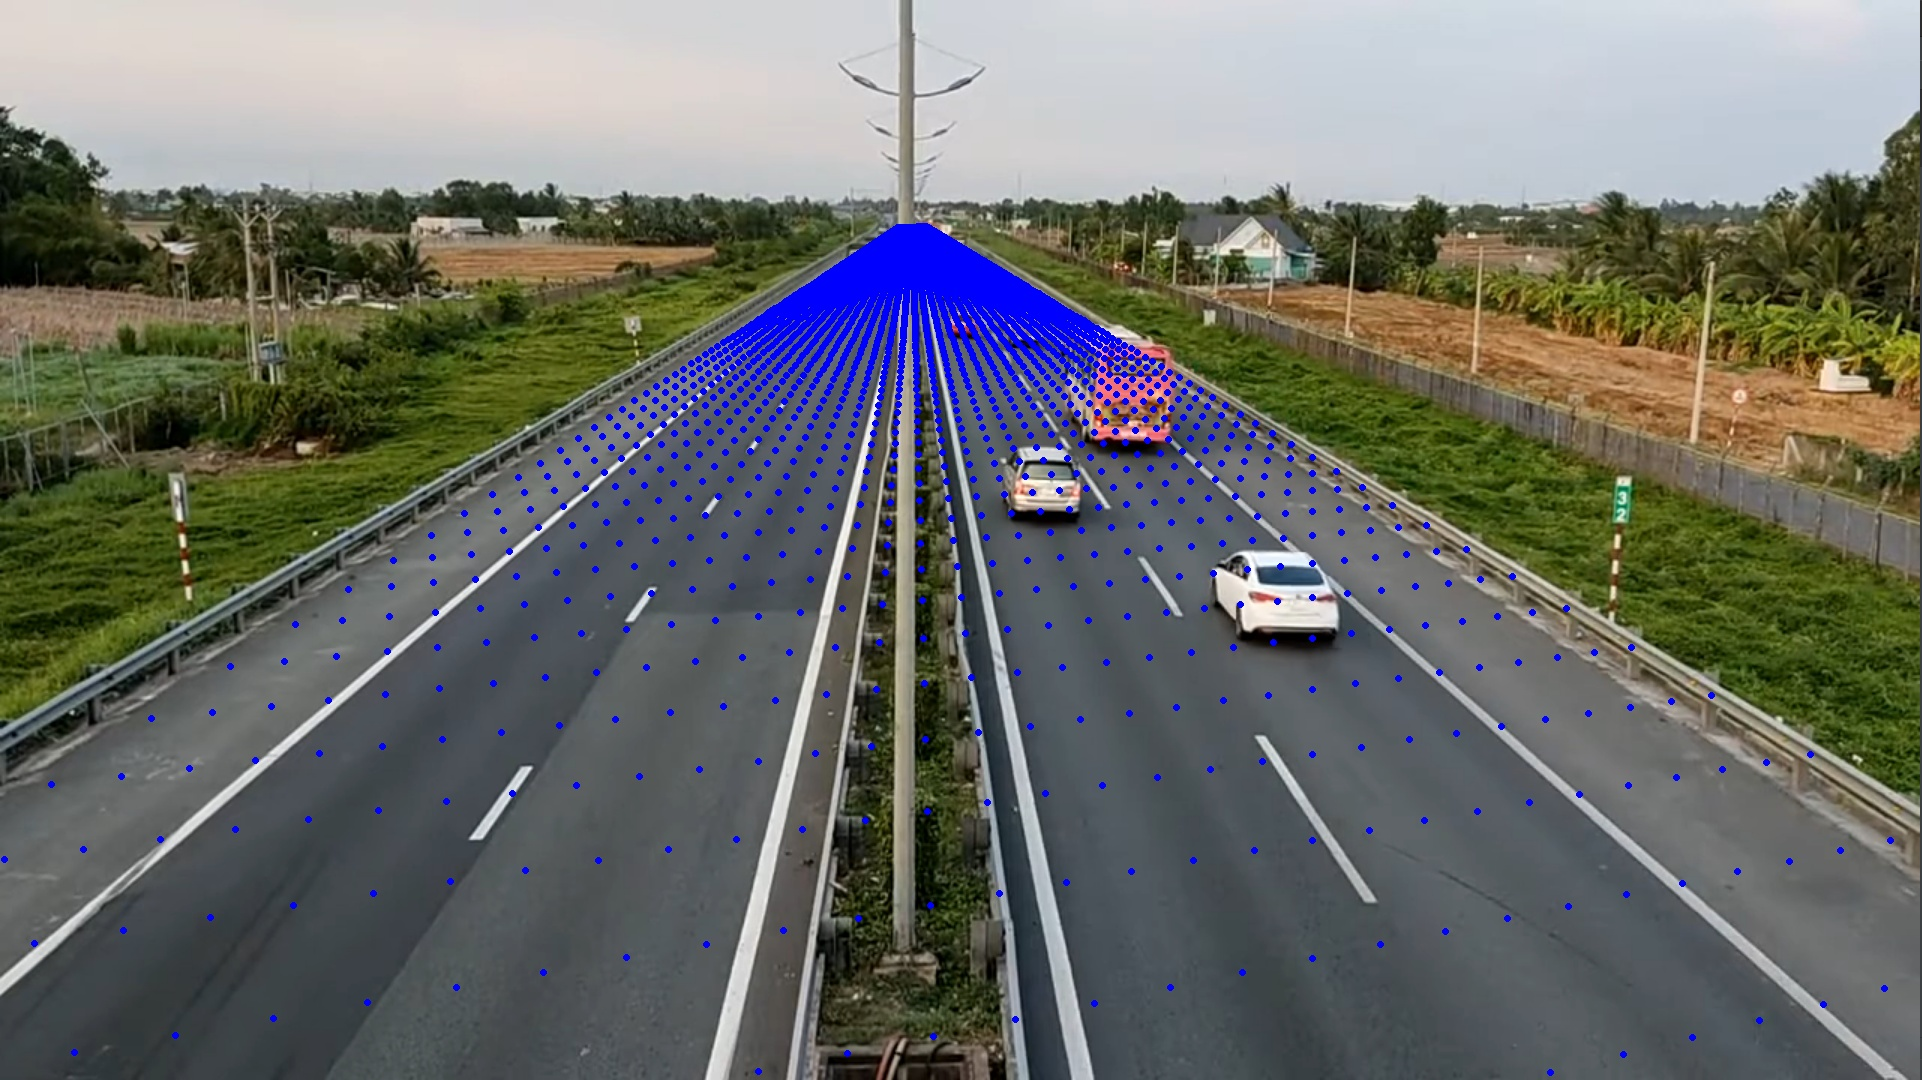
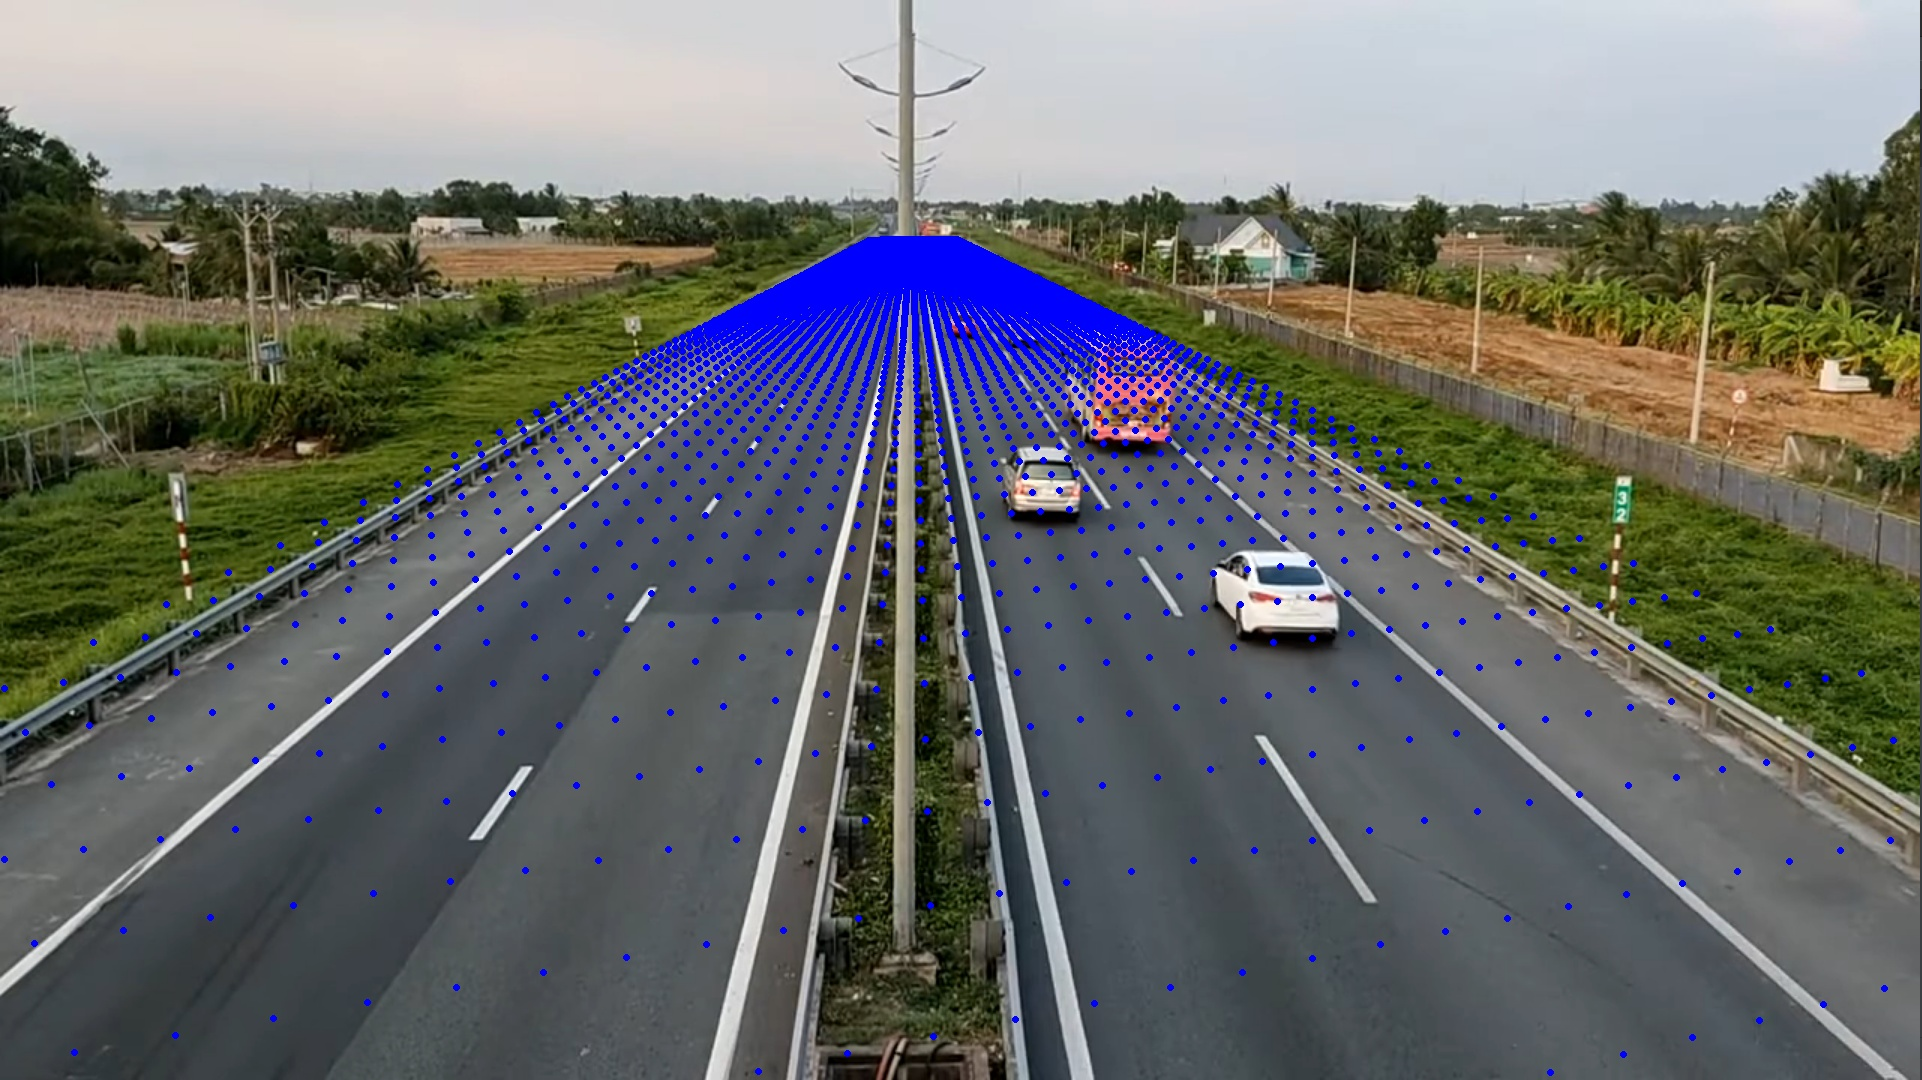
x

diff --git a/predictor/speed_estimator.py b/predictor/speed_estimator.py
@@ -1,6 +1,5 @@
 import math
-
-
+from .transform_3d import * 
 
 def twopoint_speed(Location1, Location2):
     #Euclidean Distance Formula
@@ -39,8 +38,59 @@ def birdeyes_speed(location1, location2):
     return int(speed)
 
 
-def transform_3d_speed():
-    pass
+def transform_3d_speed(location1, location2):
+    height, width = 740, 1280
+
+    # Khởi tạo các tham số
+    pi = 3.14
+    # Góc quay camera
+    p = [-pi / 7.4, 0.11, 0.0]  # [góc quay theo trục X, quay theo trục Y, quay theo trục Z]
+
+    H = 5.0  # Chiều cao của camera so với mặt đất
+    f = 0.010  # focal_length của camera
+    # Độ rộng 1 pixel
+    pu = 0.000025
+
+    # Ma trận hướng của camera, Rx tương ứng là ma trận xoay theo trục X
+    Rx = np.array([[1, 0, 0, 0],
+                   [0, cos(-p[0]), sin(-p[0]), 0],
+                   [0, -sin(-p[0]), cos(-p[0]), 0],
+                   [0, 0, 0, 1]])
+
+    Ry = np.array([[cos(-p[1]), 0, -sin(-p[1]), 0],
+                   [0, 1, 0, 0],
+                   [sin(-p[1]), 0, cos(-p[1]), 0],
+                   [0, 0, 0, 1]])
+
+    Rz = np.array([[cos(-p[2]), sin(-p[2]), 0, 0],
+                   [-sin(-p[2]), cos(-p[2]), 0, 0],
+                   [0, 0, 1, 0],
+                   [0, 0, 0, 1]])
+
+    # Ma trận vị trí của camera
+    T = np.array([[1, 0, 0, 0],
+                  [0, 1, 0, -H],
+                  [0, 0, 1, 0],
+                  [0, 0, 0, 1]])
+    R = Rx @ Ry @ Rz
+
+    # Ma trận chiếu
+    K = np.array([[-f, 0, 0],
+                  [0, -f, 0],
+                  [0, 0, 1]])
+
+    cx = width / 2.0
+    cy = height / 2.0
+    pv = pu / width * height
+
+    # Ma trận pixel
+    P = np.array([[1 / pu, 0, cx],
+                  [0, 1 / pv, cy],
+                  [0, 0, 1]])
+
+    _location1 = invert(location1)
+    inverted_location1 = np.array([])
+    _location2 = invert(location2)
 
 
 

diff --git a/3d_transforms.py b/3d_transforms.py
@@ -101,16 +101,18 @@ if __name__ == '__main__':
 
     """ đoạn code sau tạo 1 lưới các điểm trên mặt đường (y=0),
     ánh xạ nó lên vị trí pixel tương ứng và hiển thị"""
-    for x in range(-16, 16):
-        for z in range(1, 500):
+    for x in range(-20, 20):
+        for z in range(1, 200):
             y = 0
             # Tọa độ điểm 3D trong thực tế sang tọa độ pixel
             point_in_real_world = np.array([x, y, z, 1])
             point_in_pixel = convert(point_in_real_world)
+            print(point_in_pixel)
             cv2.circle(img, point_in_pixel, 2, (255, 0, 0), 2)
 
             # chuyển đổi từ tọa độ pixel sang tọa độ thế giới thực
             p_inverted = invert(point_in_pixel)
+            print(p_inverted)
 
     # cv2.imshow('test', img)
     cv2.imwrite("test.jpg", img)
